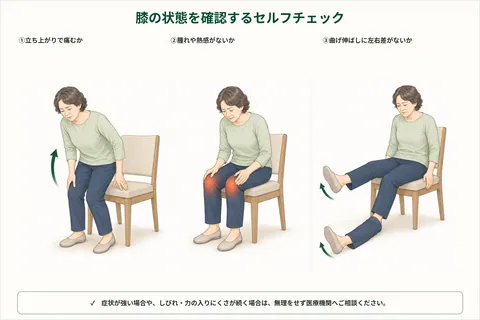
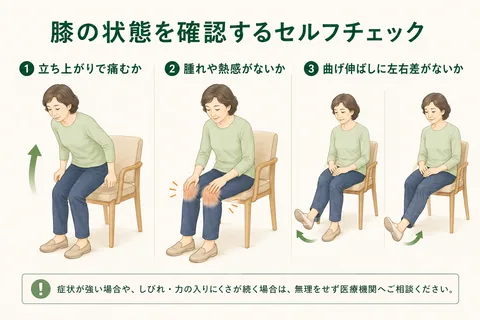
Replace knee column illustrations and align copy

diff --git a/blog/posts/knee-osteoarthritis-daily-movement/index.html b/blog/posts/knee-osteoarthritis-daily-movement/index.html
@@ -176,7 +176,7 @@
               <p>痛み方や困っている動作は人によって違います。記事の内容に近い不安があれば、LINEで今の状態を送っていただいて大丈夫です。</p>
             </div>
             <a class="article-mid-cta__button" href="https://lin.ee/X01F2mP" target="_blank" rel="noopener noreferrer">LINEで相談する</a>
-          </section><section class="article-section"><h2 id="section-3">腫れや熱感が強いときは医療機関へ</h2><p>次の変化がある場合は、運動や施術より医療機関での確認を優先してください。</p><ul class="check-list"><li>膝が急に大きく腫れた</li><li>赤みや強い熱感がある</li><li>転倒やひねったあとから体重をかけにくい</li><li>膝が動かなくなった、引っかかったまま戻らない</li><li>発熱を伴う</li><li>ふくらはぎまで腫れや痛みが広がっている</li></ul><p>普段より痛みが強い日も、無理に曲げ伸ばしを続けないでください。<a href="/blog/posts/knee-effusion-walking-guide/">膝に水がたまるときの歩き方</a>も参考になりますが、腫れの理由は医療機関で確認が必要です。</p></section><section class="article-section"><h2 id="section-4">自宅では普段の動作を一度だけ観察</h2><p>回数を競う検査ではありません。いつもの立ち上がりや移動で気づいたことを残します。</p><figure class="article-body-figure">
+          </section><section class="article-section"><h2 id="section-3">腫れや熱感が強いときは医療機関へ</h2><p>次の変化がある場合は、運動や施術より医療機関での確認を優先してください。</p><ul class="check-list"><li>膝が急に大きく腫れた</li><li>赤みや強い熱感がある</li><li>転倒やひねったあとから体重をかけにくい</li><li>膝が動かなくなった、引っかかったまま戻らない</li><li>発熱を伴う</li><li>ふくらはぎまで腫れや痛みが広がっている</li></ul><p>普段より痛みが強い日も、無理に曲げ伸ばしを続けないでください。<a href="/blog/posts/knee-effusion-walking-guide/">膝に水がたまるときの歩き方</a>も参考になりますが、腫れの理由は医療機関で確認が必要です。</p></section><section class="article-section"><h2 id="section-4">自宅では普段の動作を一度だけ観察</h2><p>痛みを確かめるために、動きを繰り返す必要はありません。普段の立ち上がりで痛むか、腫れや熱っぽさがないか、曲げ伸ばしに左右差がないかなど、すでに気づいている範囲を記録します。</p><figure class="article-body-figure">
             <picture>
               <source type="image/webp" srcset="/image/blog/knee-osteoarthritis-daily-movement/knee-osteoarthritis-daily-movement-self-check-480.webp 480w, /image/blog/knee-osteoarthritis-daily-movement/knee-osteoarthritis-daily-movement-self-check-768.webp 768w, /image/blog/knee-osteoarthritis-daily-movement/knee-osteoarthritis-daily-movement-self-check-1200.webp 1200w" sizes="(max-width: 767px) calc(100vw - 40px), 720px">
               <img src="/image/blog/knee-osteoarthritis-daily-movement/knee-osteoarthritis-daily-movement-self-check-1200.webp" alt="立ち上がり、膝の腫れ、曲げ伸ばしの左右差を観察する図" loading="lazy" decoding="async" width="1200" height="800">
@@ -184,8 +184,8 @@
             <figcaption>普段の動作を観察する補助図です。痛みが増す場合は中止し、繰り返さないでください。</figcaption>
           </figure>
         <section class="article-subsection">
-          <h3>動き始めと動いたあとの違い</h3>
-          <p>最初の一歩が痛いのか、歩いたあとに増えるのかを分けます。朝と夕方の違いもメモしておくと伝えやすくなります。</p>
+          <h3>立ち上がりで痛む場面</h3>
+          <p>椅子から立つときや最初の一歩で痛むのか、歩いたあとに増えるのかを分けます。朝と夕方の違いもメモしておくと伝えやすくなります。</p>
         </section>
 
         <section class="article-subsection">
@@ -194,8 +194,8 @@
         </section>
 
         <section class="article-subsection">
-          <h3>生活で困る場面</h3>
-          <p>低い椅子、階段、浴槽、買い物など、具体的な場面を書きます。どの動作を取り戻したいかは、施術や運動内容を考える材料になります。</p>
+          <h3>曲げ伸ばしの左右差</h3>
+          <p>普段の着替えや歩行で、片側だけ曲げにくい、伸ばしにくいと感じるかを振り返ります。確認のために何度も曲げ伸ばす必要はありません。低い椅子、階段、浴槽、買い物など、実際に困っている場面も一緒に書いておくと、施術や運動内容を考える材料になります。</p>
         </section>
       </section><section class="article-section"><h2 id="section-5">整体院ひざこぞうで確認すること</h2><p>変形性膝関節症の診断や進行度の判断は医療機関で行います。注射、薬、手術などの説明を受けている場合は、その内容を尊重します。</p><p>整体院では、膝の痛みだけでなく、立ち上がり、歩行、階段を想定した動き、股関節と足首の動き、身体を支える力を確認します。難しい運動を一律に行わず、その日の状態と生活目標に合わせます。</p></section><section class="article-section note-box"><h2 id="section-6">まとめ</h2><p>変形性膝関節症では、立ち上がりや階段で膝の痛みが出ることがあります。画像の変化だけで日常の困りごとを決めず、腫れや動作の変化を整理して医療機関や施術者へ伝えてください。</p></section>
 

diff --git a/content/seo/2026-07-knee-osteoarthritis-daily-movement.md b/content/seo/2026-07-knee-osteoarthritis-daily-movement.md
@@ -32,17 +32,17 @@
 普段より痛みが強い日も、無理に曲げ伸ばしを続けないでください。[膝に水がたまるときの歩き方](/blog/posts/knee-effusion-walking-guide/)も参考になりますが、腫れの理由は医療機関で確認が必要です。
 
 ## 自宅では普段の動作を一度だけ観察
-回数を競う検査ではありません。いつもの立ち上がりや移動で気づいたことを残します。
+痛みを確かめるために、動きを繰り返す必要はありません。普段の立ち上がりで痛むか、腫れや熱っぽさがないか、曲げ伸ばしに左右差がないかなど、すでに気づいている範囲を記録します。
 ![立ち上がり、膝の腫れ、曲げ伸ばしの左右差を観察する図](/image/blog/knee-osteoarthritis-daily-movement/knee-osteoarthritis-daily-movement-self-check-1200.webp "普段の動作を観察する補助図です。痛みが増す場合は中止し、繰り返さないでください。")
 
-### 動き始めと動いたあとの違い
-最初の一歩が痛いのか、歩いたあとに増えるのかを分けます。朝と夕方の違いもメモしておくと伝えやすくなります。
+### 立ち上がりで痛む場面
+椅子から立つときや最初の一歩で痛むのか、歩いたあとに増えるのかを分けます。朝と夕方の違いもメモしておくと伝えやすくなります。
 
 ### 腫れと熱っぽさ
 左右の見た目や膝まわりの熱っぽさを確認します。強く押したり、何度も曲げ伸ばしたりする必要はありません。
 
-### 生活で困る場面
-低い椅子、階段、浴槽、買い物など、具体的な場面を書きます。どの動作を取り戻したいかは、施術や運動内容を考える材料になります。
+### 曲げ伸ばしの左右差
+普段の着替えや歩行で、片側だけ曲げにくい、伸ばしにくいと感じるかを振り返ります。確認のために何度も曲げ伸ばす必要はありません。低い椅子、階段、浴槽、買い物など、実際に困っている場面も一緒に書いておくと、施術や運動内容を考える材料になります。
 
 ## 整体院ひざこぞうで確認すること
 変形性膝関節症の診断や進行度の判断は医療機関で行います。注射、薬、手術などの説明を受けている場合は、その内容を尊重します。

diff --git a/content/source/2026-07-knee-osteoarthritis-daily-movement.md b/content/source/2026-07-knee-osteoarthritis-daily-movement.md
@@ -55,21 +55,21 @@ draft: false
 
 ## 自宅では普段の動作を一度だけ観察
 
-回数を競う検査ではありません。いつもの立ち上がりや移動で気づいたことを残します。
+痛みを確かめるために、動きを繰り返す必要はありません。普段の立ち上がりで痛むか、腫れや熱っぽさがないか、曲げ伸ばしに左右差がないかなど、すでに気づいている範囲を記録します。
 
 ![立ち上がり、膝の腫れ、曲げ伸ばしの左右差を観察する図](/image/blog/knee-osteoarthritis-daily-movement/knee-osteoarthritis-daily-movement-self-check-1200.webp "普段の動作を観察する補助図です。痛みが増す場合は中止し、繰り返さないでください。")
 
-### 動き始めと動いたあとの違い
+### 立ち上がりで痛む場面
 
-最初の一歩が痛いのか、歩いたあとに増えるのかを分けます。朝と夕方の違いもメモしておくと伝えやすくなります。
+椅子から立つときや最初の一歩で痛むのか、歩いたあとに増えるのかを分けます。朝と夕方の違いもメモしておくと伝えやすくなります。
 
 ### 腫れと熱っぽさ
 
 左右の見た目や膝まわりの熱っぽさを確認します。強く押したり、何度も曲げ伸ばしたりする必要はありません。
 
-### 生活で困る場面
+### 曲げ伸ばしの左右差
 
-低い椅子、階段、浴槽、買い物など、具体的な場面を書きます。どの動作を取り戻したいかは、施術や運動内容を考える材料になります。
+普段の着替えや歩行で、片側だけ曲げにくい、伸ばしにくいと感じるかを振り返ります。確認のために何度も曲げ伸ばす必要はありません。低い椅子、階段、浴槽、買い物など、実際に困っている場面も一緒に書いておくと、施術や運動内容を考える材料になります。
 
 ## 整体院ひざこぞうで確認すること
 
